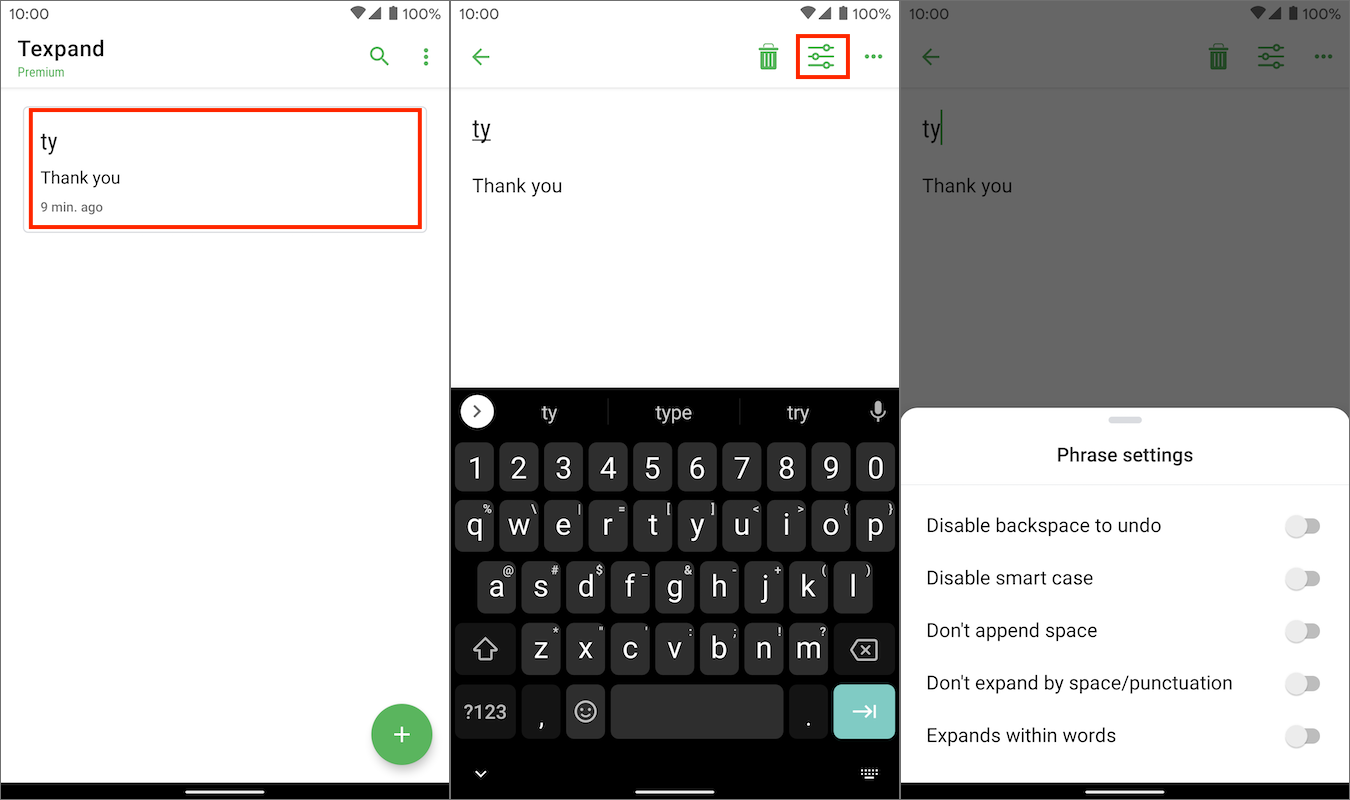
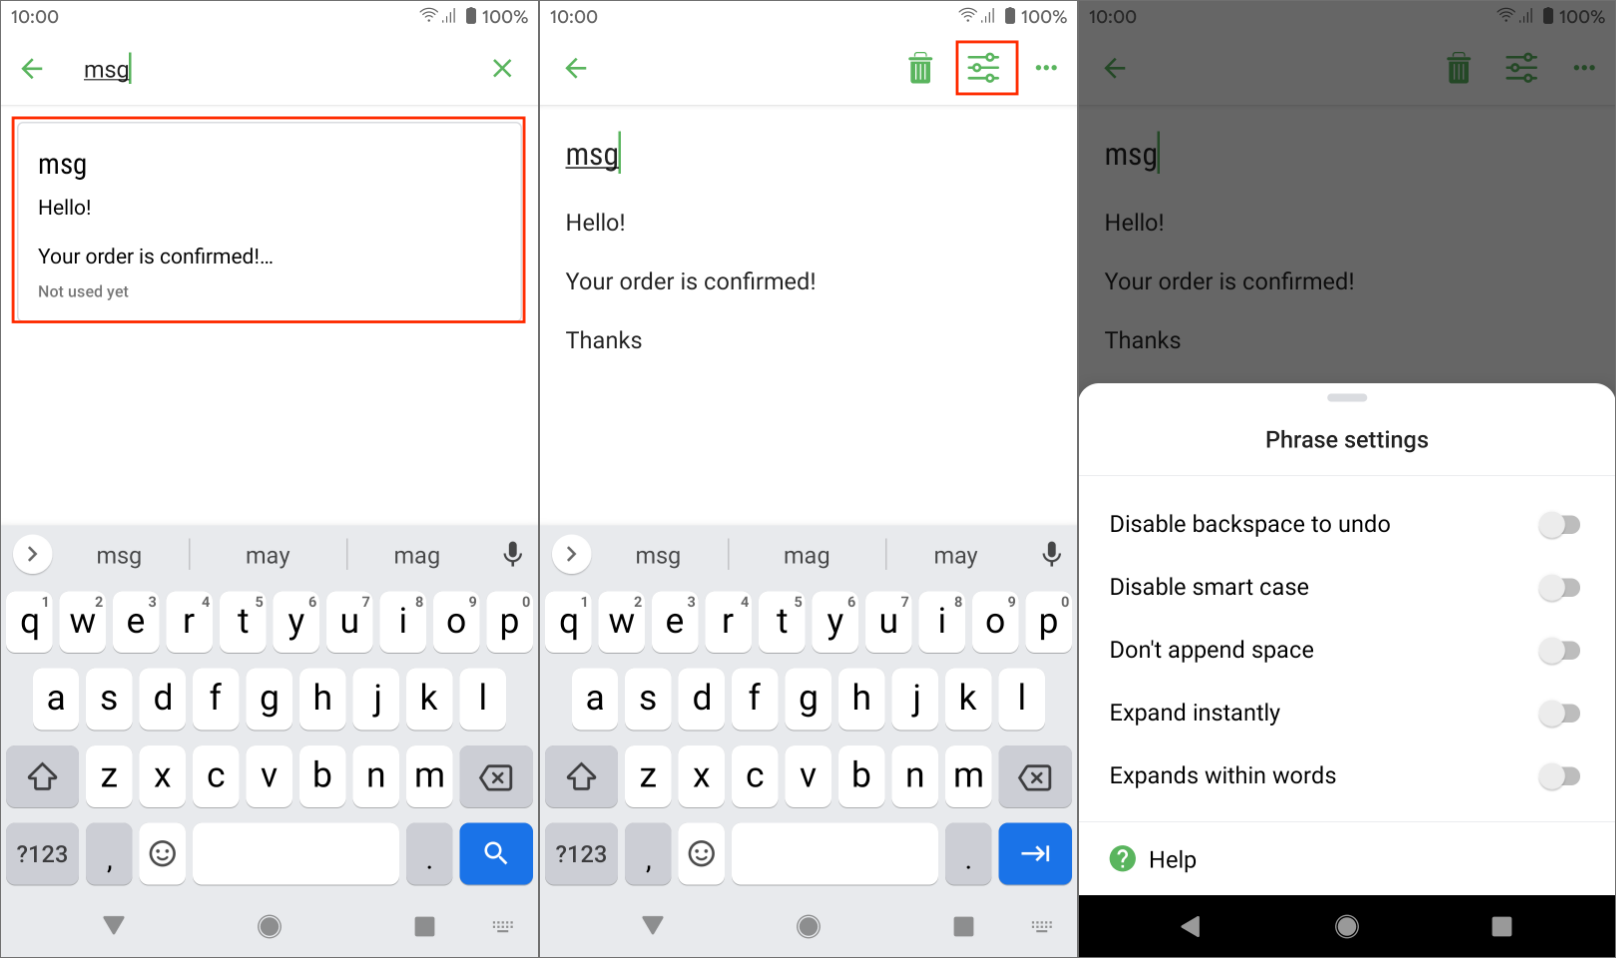
- Updated text-config for "Expand with space/punctuation" and "Expand instantly" - Updated screenshots for phrase settings - Added info about text selection replacement to 'getting-started' guide

diff --git a/docs/getting-started.md b/docs/getting-started.md
@@ -116,13 +116,23 @@ You can search for phrases using the contents of your notes.
 
 ## Phrase Preview
 
-Phrase preview shows a small part of the phrase that's about to be inserted when you type a shortcut, you can also [open a phrase](#opening-your-phrases-with-other-applications) with other applications by tapping the the icon that appears at the end.
+Phrase preview shows a small part of the phrase that's about to be inserted when you type a shortcut, you can tap it to insert a phrase you can also [open a phrase](#opening-your-phrases-with-other-applications) with other applications by tapping the the icon that appears at the end.
 
 ![Phrase Preview](img/expand_by_tap.png)
 
 > 💡 You can open the phrase editor by long pressing the phrase window to quickly make changes to your phrase
 
 > If you have disabled ["expand with space/punctuation"](/text-expansion-configuration?id=expand-with-spacepunctuation 'target=_self') or if ["don't require space for expansion"](/text-expansion-configuration?id=don39t-require-space-for-expansion 'target=_self') is disabled for a phrase, phrase preview will not be displayed.
+
+## Insert phrases by replacing text selection
+
+In cases where Texpand doesn't work normally you can use [Text Input Assistant](/text-input-assistant 'target=_self'), in addition you can insert phrases by selecting an editable text, to do so select a text and in the selection menu tap ( ⠇) and select "Search Texpand", this will bring up results that contain the selected text, select one of the results, this will close the search screen and replace the text selection with the selected phrase.
+
+![Text Selection replacement](img/replace_text_selection.png)
+
+> If you select a phrase-list a dialog with a list of items will appear, tap the item you want to insert it.
+
+> Text selection replacement may not work with some apps, you may also not get the "Search Texpand" menu item in certain apps.
 
 
 ## Opening your phrases with other applications

diff --git a/docs/changelog.md b/docs/changelog.md
@@ -1,5 +1,16 @@
 ### Latest
 
+#### 2.0.2 - d1e48bd
+
+-✨ New: insert phrase by replacing text selection
+-🐞 Fixed: missing leading zero for single digit date
+-🐞 Fixed: auto-expansion issue, now disabling "Expand with space/punc" doesn't cause phrases to expand instantly.
+-🐞 Fixed: renamed per phrase setting "Don't require space for expansion" to "Expand instantly" if enabled a phrase will auto-expand as soon as it's typed.
+-🐞 Fixed: phrases that have "Expand within words" enabled expanded by space/punctuation
+
+
+### Older
+
 #### 2.0.1 - 6c1c5ee
 
 - 🇪🇸 Hola! Texpand is now available in Spanish (Gracias, Nicolàs Portela)
@@ -9,9 +20,6 @@
 - 🐞 Fixed: undo may not work in some situations
 - 🐞 Fixed: reversed predefined date formats
 - ✨ Stability and performance improvements
-
-
-### Older
 
 #### 2.0.0 - 541a938 (Release)
 

diff --git a/docs/text-expansion-configuration.md b/docs/text-expansion-configuration.md
@@ -50,9 +50,9 @@ Hwr? → How are you?
 Ty,  → Thank you, 
 ```
 
-If this is disabled, shortcuts will auto-expand without any additional action.
+If this is disabled, you will have to tap [phrase preview](/README?id=phrase-preview) to insert your phrase.
 
-> If this option is disabled, [phrase preview](/README?id=phrase-preview) will be disabled for all shortcuts.
+> Phrases that have [expand within words](#expands-within-words) enabled can't be expanded by typing space/punctuation.
 
 
 ## Phrase Settings
@@ -76,7 +76,7 @@ Disables [smart case](#smart-case) for a phrase.
 
 Space won't be [appended](#append-space) when this phrase expands.
 
-### Don't require space for expansion
+### Expand instantly
 
 When enabled, shortcut will auto-expand as soon as it's typed. No need to tap space/punctuation. 
 
